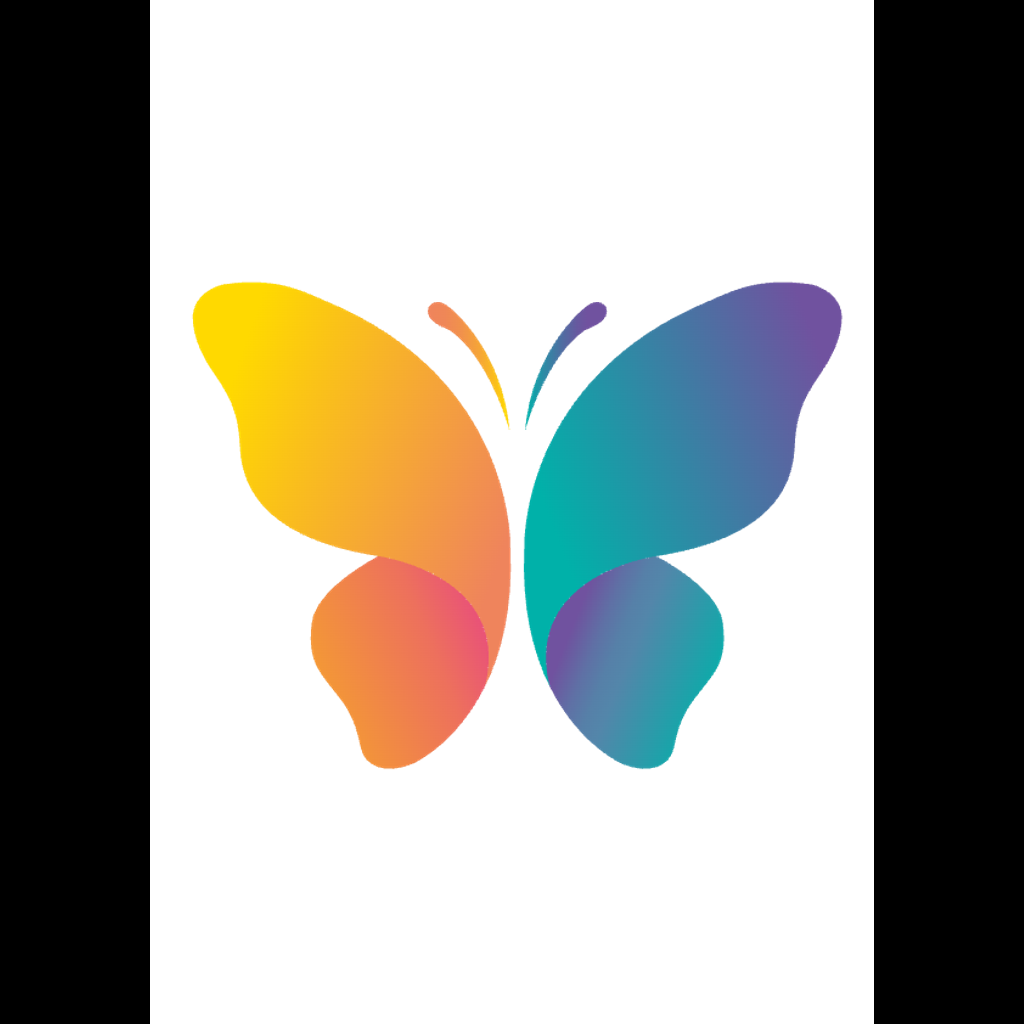
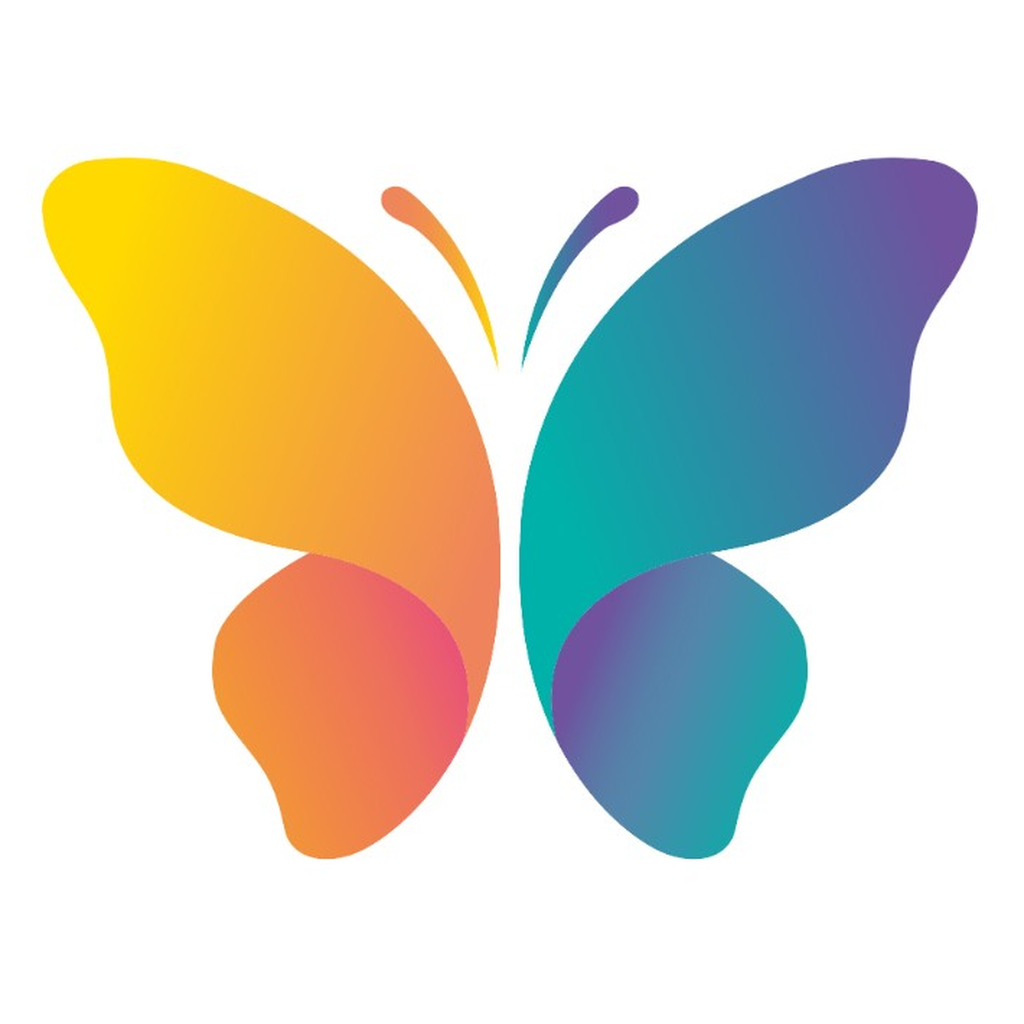
feat(expo-ios): TestFlight 배포 준비 — 풀블리드 아이콘 + 운영 API URL + ASC submit 자동화
iOS 앱 아이콘
- icon.png 신규(1024x1024 RGB, alpha 없음): 원본 PNG 흰 배경 trim 후 정사각형
  캔버스에 95% fit — 가로 972px 풀블리드, 세로 740px(나비가 가로형이라 자연스러움).
- app.config.ts ios.icon → ./assets/images/icon.png 로 분리(글로벌 icon과 Android
  adaptive 는 기존 그대로 유지).

운영 빌드 환경
- eas.json production env에 EXPO_PUBLIC_API_BASE_URL=https://app.core-solution.co.kr
  추가(production 빌드가 운영 백엔드를 가리키도록 — 기존 dev fallback 만으로는 NULL).

ASC 자동 submit
- eas.json submit.production.ios: appleId=[email redacted], ascAppId=6773278258,
  appleTeamId=65M2946S2L. App Store Connect 앱 등록: 마인드가든심리상담센터
  (Bundle ID com.mindgarden.MindGardenMobile).
- EAS production 빌드 시 --auto-submit 으로 TestFlight 자동 등록 가능.

diff --git a/expo-app/app.config.ts b/expo-app/app.config.ts
@@ -194,7 +194,7 @@ export default ({ config }: ConfigContext): ExpoConfig => {
       backgroundColor: '#000000',
     },
     ios: {
-      icon: './assets/images/adaptive-icon.png',
+      icon: './assets/images/icon.png',
       supportsTablet: true,
       bundleIdentifier: 'com.mindgarden.MindGardenMobile',
       infoPlist: {